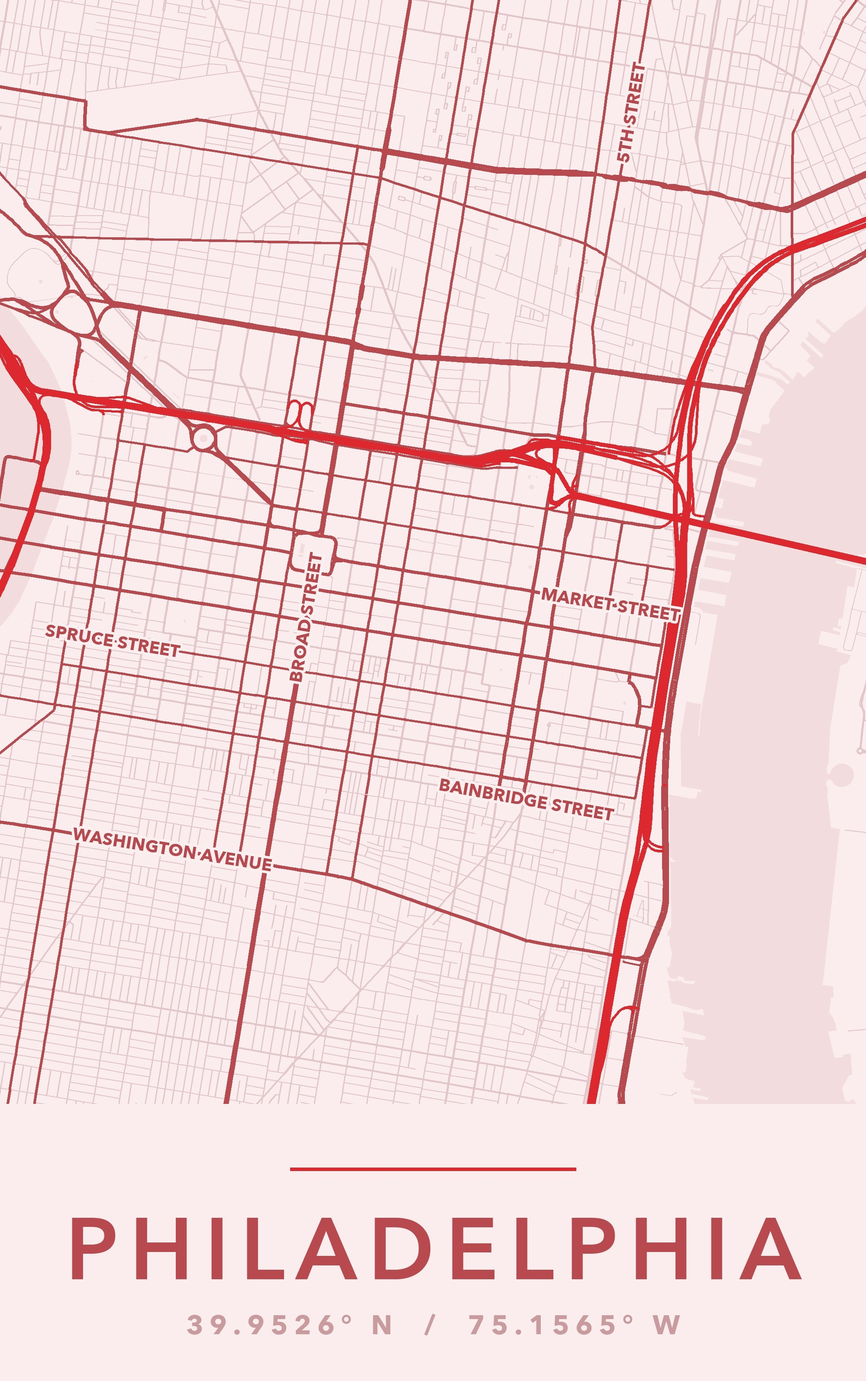
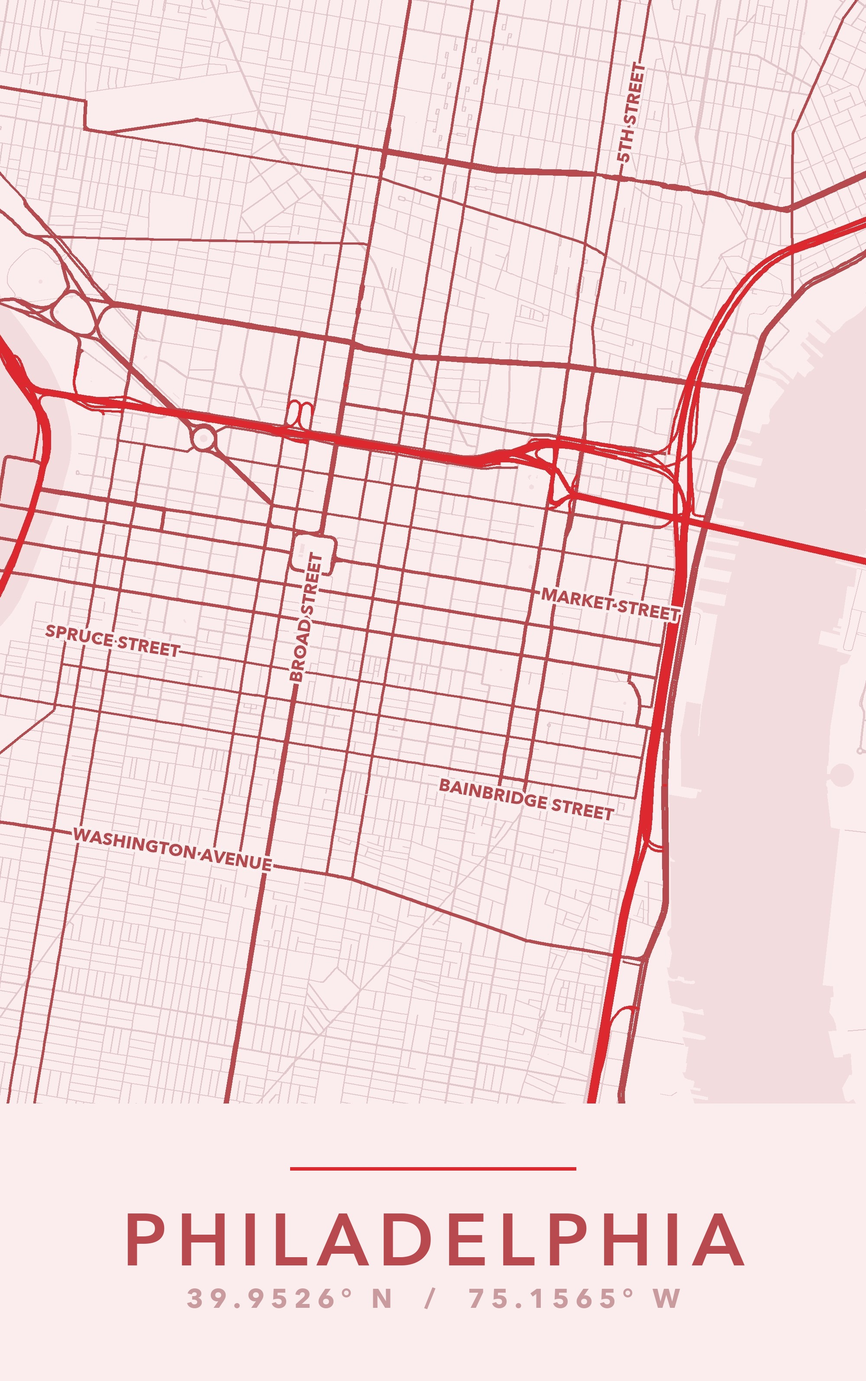
S26 Ultra white device color + Philadelphia map title fix (stale render band-redrawn, all 4 colorways)

Changed region(s): [[0.062, 0.869, 0.93, 0.9621]]

diff --git a/gallery.html b/gallery.html
@@ -359,7 +359,7 @@
   });
 
   /* ================= shop-by-device (Casetify-style) ================= */
-  var KP_DEVICES = {"iPhone 17 Pro Max": {"colors": [{"n": "Silver", "h": "#F5F5F5", "f": "i17pm-silver.webp"}, {"n": "Cosmic Orange", "h": "#F77E2D", "f": "i17pm-orange.webp"}, {"n": "Deep Blue", "h": "#32374A", "f": "i17pm-blue.webp"}], "outD": "M 833.0 344.0 L 1663.0 344.0 A 165.0 165.0 0 0 1 1828.0 509.0 L 1828.0 2485.0 A 165.0 165.0 0 0 1 1663.0 2650.0 L 833.0 2650.0 A 165.0 165.0 0 0 1 668.0 2485.0 L 668.0 509.0 A 165.0 165.0 0 0 1 833.0 344.0 Z", "camD": "M 782.0 362.0 L 1692.0 362.0 A 72.0 72.0 0 0 1 1764.0 434.0 L 1764.0 930.0 A 72.0 72.0 0 0 1 1692.0 1002.0 L 782.0 1002.0 A 72.0 72.0 0 0 1 710.0 930.0 L 710.0 434.0 A 72.0 72.0 0 0 1 782.0 362.0 Z", "outBox": [668.0, 344.0, 1828.0, 2650.0]}, "iPhone 17 Pro": {"colors": [{"n": "Silver", "h": "#F5F5F5", "f": "i17p-silver.webp"}, {"n": "Cosmic Orange", "h": "#F77E2D", "f": "i17p-orange.webp"}, {"n": "Deep Blue", "h": "#32374A", "f": "i17p-blue.webp"}], "outD": "M 833.0 350.0 L 1669.0 350.0 A 165.0 165.0 0 0 1 1834.0 515.0 L 1834.0 2485.0 A 165.0 165.0 0 0 1 1669.0 2650.0 L 833.0 2650.0 A 165.0 165.0 0 0 1 668.0 2485.0 L 668.0 515.0 A 165.0 165.0 0 0 1 833.0 350.0 Z", "camD": "M 782.0 366.0 L 1688.0 366.0 A 72.0 72.0 0 0 1 1760.0 438.0 L 1760.0 990.0 A 72.0 72.0 0 0 1 1688.0 1062.0 L 782.0 1062.0 A 72.0 72.0 0 0 1 710.0 990.0 L 710.0 438.0 A 72.0 72.0 0 0 1 782.0 366.0 Z", "outBox": [668.0, 350.0, 1834.0, 2650.0]}, "iPhone 17": {"colors": [{"n": "Black", "h": "#2A2A30", "f": "i17-black.webp"}, {"n": "Silver", "h": "#E8E7E7", "f": "i17-silver.webp"}, {"n": "Lavender", "h": "#B0ADC3", "f": "i17-lavender.webp"}, {"n": "Mist Blue", "h": "#7D90A3", "f": "i17-blue.webp"}], "outD": "M 833.0 350.0 L 1663.0 350.0 A 165.0 165.0 0 0 1 1828.0 515.0 L 1828.0 2485.0 A 165.0 165.0 0 0 1 1663.0 2650.0 L 833.0 2650.0 A 165.0 165.0 0 0 1 668.0 2485.0 L 668.0 515.0 A 165.0 165.0 0 0 1 833.0 350.0 Z", "camD": "M 774.0 394.0 L 1194.0 394.0 A 72.0 72.0 0 0 1 1266.0 466.0 L 1266.0 922.0 A 72.0 72.0 0 0 1 1194.0 994.0 L 774.0 994.0 A 72.0 72.0 0 0 1 702.0 922.0 L 702.0 466.0 A 72.0 72.0 0 0 1 774.0 394.0 Z", "outBox": [668.0, 350.0, 1828.0, 2650.0]}, "iPhone Air": {"colors": [{"n": "Space Black", "h": "#2A2A30", "f": "i17a-black.webp"}, {"n": "Cloud White", "h": "#E8E7E7", "f": "i17a-silver.webp"}, {"n": "Sky Blue", "h": "#ADBFC5", "f": "i17a-blue.webp"}, {"n": "Light Gold", "h": "#C6BDAB", "f": "i17a-gold.webp"}], "outD": "M 833.0 350.0 L 1663.0 350.0 A 165.0 165.0 0 0 1 1828.0 515.0 L 1828.0 2485.0 A 165.0 165.0 0 0 1 1663.0 2650.0 L 833.0 2650.0 A 165.0 165.0 0 0 1 668.0 2485.0 L 668.0 515.0 A 165.0 165.0 0 0 1 833.0 350.0 Z", "camD": "M 778.0 362.0 L 1692.0 362.0 A 72.0 72.0 0 0 1 1764.0 434.0 L 1764.0 750.0 A 72.0 72.0 0 0 1 1692.0 822.0 L 778.0 822.0 A 72.0 72.0 0 0 1 706.0 750.0 L 706.0 434.0 A 72.0 72.0 0 0 1 778.0 362.0 Z", "outBox": [668.0, 350.0, 1828.0, 2650.0]}, "iPhone 16 Pro Max": {"colors": [{"n": "Black", "h": "#505050", "f": "i16pm-black.webp"}, {"n": "Silver", "h": "#939393", "f": "i16pm-silver.webp"}, {"n": "Titanium", "h": "#837F7C", "f": "i16pm-titan.webp"}, {"n": "Blue", "h": "#6E767D", "f": "i16pm-blue.webp"}], "outD": "M 847.4 250.0 L 1649.6 250.0 A 209.4 209.4 0 0 1 1859.0 459.4 L 1859.0 2495.6 A 209.4 209.4 0 0 1 1649.6 2705.0 L 847.4 2705.0 A 209.4 209.4 0 0 1 638.0 2495.6 L 638.0 459.4 A 209.4 209.4 0 0 1 847.4 250.0 Z", "camD": "M 858.4 271.1 L 1152.0 271.1 A 189.2 189.2 0 0 1 1341.3 460.3 L 1341.3 743.7 A 189.2 189.2 0 0 1 1152.0 933.0 L 858.4 933.0 A 189.2 189.2 0 0 1 669.2 743.7 L 669.2 460.3 A 189.2 189.2 0 0 1 858.4 271.1 Z", "outBox": [638.0, 250.0, 1859.0, 2705.0]}, "iPhone 16 Pro": {"colors": [{"n": "Black", "h": "#7A7A7A", "f": "i16p-black.webp"}, {"n": "Silver", "h": "#B1B1B1", "f": "i16p-silver.webp"}, {"n": "Titanium", "h": "#AAA8A7", "f": "i16p-titan.webp"}, {"n": "Blue", "h": "#8D9194", "f": "i16p-blue.webp"}], "outD": "M 887.8 351.0 L 1609.2 351.0 A 202.8 202.8 0 0 1 1812.0 553.8 L 1812.0 2400.2 A 202.8 202.8 0 0 1 1609.2 2603.0 L 887.8 2603.0 A 202.8 202.8 0 0 1 685.0 2400.2 L 685.0 553.8 A 202.8 202.8 0 0 1 887.8 351.0 Z", "camD": "M 901.7 388.2 L 1195.0 388.2 A 193.5 193.5 0 0 1 1388.5 581.6 L 1388.5 851.1 A 193.5 193.5 0 0 1 1195.0 1044.5 L 901.7 1044.5 A 193.5 193.5 0 0 1 708.3 851.1 L 708.3 581.6 A 193.5 193.5 0 0 1 901.7 388.2 Z", "outBox": [685.0, 351.0, 1812.0, 2603.0]}, "iPhone 16": {"colors": [{"n": "Black", "h": "#545454", "f": "i16n-dark.webp"}, {"n": "White", "h": "#A9A9A9", "f": "i16n-white.webp"}, {"n": "Titanium", "h": "#8A8781", "f": "i16n-titan.webp"}, {"n": "Blue", "h": "#818EBA", "f": "i16n-blue.webp"}, {"n": "Pink", "h": "#B286A7", "f": "i16n-pink.webp"}], "outD": "M 905.9 364.0 L 1591.1 364.0 A 223.9 223.9 0 0 1 1815.0 587.9 L 1815.0 2366.1 A 223.9 223.9 0 0 1 1591.1 2590.0 L 905.9 2590.0 A 223.9 223.9 0 0 1 682.0 2366.1 L 682.0 587.9 A 223.9 223.9 0 0 1 905.9 364.0 Z", "camD": "M 886.9 381.5 L 893.1 381.5 A 188.4 188.4 0 0 1 1081.5 569.9 L 1081.5 819.2 A 188.4 188.4 0 0 1 893.1 1007.6 L 886.9 1007.6 A 188.4 188.4 0 0 1 698.5 819.2 L 698.5 569.9 A 188.4 188.4 0 0 1 886.9 381.5 Z", "outBox": [682.0, 364.0, 1815.0, 2590.0]}, "iPhone 15 Pro Max": {"colors": [{"n": "Black", "h": "#212121", "f": "i15pm-black.webp"}, {"n": "White", "h": "#6B6B6B", "f": "i15pm-white.webp"}, {"n": "Titanium", "h": "#585049", "f": "i15pm-titan.webp"}], "outD": "M 859.6 334.0 L 1649.4 334.0 A 187.6 187.6 0 0 1 1837.0 521.6 L 1837.0 2506.4 A 187.6 187.6 0 0 1 1649.4 2694.0 L 859.6 2694.0 A 187.6 187.6 0 0 1 672.0 2506.4 L 672.0 521.6 A 187.6 187.6 0 0 1 859.6 334.0 Z", "camD": "M 760.4 334.0 L 1280.3 334.0 A 88.4 88.4 0 0 1 1368.6 422.4 L 1368.6 831.9 A 88.4 88.4 0 0 1 1280.3 920.2 L 760.4 920.2 A 88.4 88.4 0 0 1 672.0 831.9 L 672.0 422.4 A 88.4 88.4 0 0 1 760.4 334.0 Z", "outBox": [672.0, 334.0, 1837.0, 2694.0]}, "iPhone 15 Pro": {"colors": [{"n": "Black", "h": "#2A2A2A", "f": "i15p-black.webp"}, {"n": "Silver", "h": "#BDBDBD", "f": "i15p-silver.webp"}, {"n": "Titanium", "h": "#9A958B", "f": "i15p-titan.webp"}], "outD": "M 886.2 447.0 L 1607.8 447.0 A 185.2 185.2 0 0 1 1793.0 632.2 L 1793.0 2441.8 A 185.2 185.2 0 0 1 1607.8 2627.0 L 886.2 2627.0 A 185.2 185.2 0 0 1 701.0 2441.8 L 701.0 632.2 A 185.2 185.2 0 0 1 886.2 447.0 Z", "camD": "M 797.9 447.0 L 1315.9 447.0 A 96.9 96.9 0 0 1 1412.8 543.9 L 1412.8 932.4 A 96.9 96.9 0 0 1 1315.9 1029.4 L 797.9 1029.4 A 96.9 96.9 0 0 1 701.0 932.4 L 701.0 543.9 A 96.9 96.9 0 0 1 797.9 447.0 Z", "outBox": [701.0, 447.0, 1793.0, 2627.0]}, "iPhone 15": {"colors": [{"n": "Black", "h": "#303030", "f": "i15-black.webp"}, {"n": "Pink", "h": "#AD979C", "f": "i15-pink.webp"}, {"n": "Yellow", "h": "#BFB79F", "f": "i15-yellow.webp"}], "outD": "M 877.3 431.0 L 1640.7 431.0 A 172.3 172.3 0 0 1 1813.0 603.3 L 1813.0 2443.7 A 172.3 172.3 0 0 1 1640.7 2616.0 L 877.3 2616.0 A 172.3 172.3 0 0 1 705.0 2443.7 L 705.0 603.3 A 172.3 172.3 0 0 1 877.3 431.0 Z", "camD": "M 826.7 431.0 L 1178.6 431.0 A 121.7 121.7 0 0 1 1300.3 552.7 L 1300.3 797.2 A 121.7 121.7 0 0 1 1178.6 918.9 L 826.7 918.9 A 121.7 121.7 0 0 1 705.0 797.2 L 705.0 552.7 A 121.7 121.7 0 0 1 826.7 431.0 Z", "outBox": [705.0, 431.0, 1813.0, 2616.0]}, "iPhone 13 Pro Max": {"colors": [{"n": "Black", "h": "#2A2A2E", "f": "i13pm-black.webp"}, {"n": "Red", "h": "#A32638", "f": "i13pm-red.webp"}, {"n": "Gold", "h": "#E3CFA8", "f": "i13pm-gold.webp"}, {"n": "White", "h": "#E8E7E7", "f": "i13pm-white.webp"}], "outD": "M 899.0 466.0 L 1602.0 466.0 A 170.0 170.0 0 0 1 1772.0 636.0 L 1772.0 2365.0 A 170.0 170.0 0 0 1 1602.0 2535.0 L 899.0 2535.0 A 170.0 170.0 0 0 1 729.0 2365.0 L 729.0 636.0 A 170.0 170.0 0 0 1 899.0 466.0 Z", "camD": "M 855.0 507.0 L 1133.0 507.0 A 80.0 80.0 0 0 1 1213.0 587.0 L 1213.0 865.0 A 80.0 80.0 0 0 1 1133.0 945.0 L 855.0 945.0 A 80.0 80.0 0 0 1 775.0 865.0 L 775.0 587.0 A 80.0 80.0 0 0 1 855.0 507.0 Z", "outBox": [729, 466, 1772, 2535]}, "iPhone 13 Pro": {"colors": [{"n": "Black", "h": "#2A2A2E", "f": "i13p-black.webp"}, {"n": "Gold", "h": "#E3CFA8", "f": "i13p-gold.webp"}, {"n": "Red", "h": "#A32638", "f": "i13p-red.webp"}, {"n": "White", "h": "#E8E7E7", "f": "i13p-white.webp"}], "outD": "M 941.0 556.0 L 1560.0 556.0 A 170.0 170.0 0 0 1 1730.0 726.0 L 1730.0 2275.0 A 170.0 170.0 0 0 1 1560.0 2445.0 L 941.0 2445.0 A 170.0 170.0 0 0 1 771.0 2275.0 L 771.0 726.0 A 170.0 170.0 0 0 1 941.0 556.0 Z", "camD": "M 894.0 594.0 L 1136.0 594.0 A 80.0 80.0 0 0 1 1216.0 674.0 L 1216.0 916.0 A 80.0 80.0 0 0 1 1136.0 996.0 L 894.0 996.0 A 80.0 80.0 0 0 1 814.0 916.0 L 814.0 674.0 A 80.0 80.0 0 0 1 894.0 594.0 Z", "outBox": [771, 556, 1730, 2445]}, "iPhone 13": {"colors": [{"n": "Black", "h": "#2A2A2E", "f": "i13-black.webp"}, {"n": "Gold", "h": "#E3CFA8", "f": "i13-gold.webp"}, {"n": "Red", "h": "#A32638", "f": "i13-red.webp"}, {"n": "White", "h": "#E8E7E7", "f": "i13-white.webp"}], "outD": "M 941.0 555.0 L 1560.0 555.0 A 170.0 170.0 0 0 1 1730.0 725.0 L 1730.0 2276.0 A 170.0 170.0 0 0 1 1560.0 2446.0 L 941.0 2446.0 A 170.0 170.0 0 0 1 771.0 2276.0 L 771.0 725.0 A 170.0 170.0 0 0 1 941.0 555.0 Z", "camD": "M 894.0 593.0 L 1136.0 593.0 A 80.0 80.0 0 0 1 1216.0 673.0 L 1216.0 915.0 A 80.0 80.0 0 0 1 1136.0 995.0 L 894.0 995.0 A 80.0 80.0 0 0 1 814.0 915.0 L 814.0 673.0 A 80.0 80.0 0 0 1 894.0 593.0 Z", "outBox": [771, 555, 1730, 2446]}, "iPhone 13 mini": {"colors": [{"n": "Black", "h": "#2A2A2E", "f": "i13mn-black.webp"}, {"n": "Gold", "h": "#E3CFA8", "f": "i13mn-gold.webp"}, {"n": "Red", "h": "#A32638", "f": "i13mn-red.webp"}, {"n": "White", "h": "#E8E7E7", "f": "i13mn-white.webp"}], "outD": "M 988.0 652.0 L 1513.0 652.0 A 170.0 170.0 0 0 1 1683.0 822.0 L 1683.0 2179.0 A 170.0 170.0 0 0 1 1513.0 2349.0 L 988.0 2349.0 A 170.0 170.0 0 0 1 818.0 2179.0 L 818.0 822.0 A 170.0 170.0 0 0 1 988.0 652.0 Z", "camD": "M 936.0 686.0 L 1139.0 686.0 A 80.0 80.0 0 0 1 1219.0 766.0 L 1219.0 969.0 A 80.0 80.0 0 0 1 1139.0 1049.0 L 936.0 1049.0 A 80.0 80.0 0 0 1 856.0 969.0 L 856.0 766.0 A 80.0 80.0 0 0 1 936.0 686.0 Z", "outBox": [818, 652, 1683, 2349]}, "iPhone 12 Pro Max": {"colors": [{"n": "Black", "h": "#2A2A2E", "f": "i12pm-black.webp"}, {"n": "Gold", "h": "#E3CFA8", "f": "i12pm-gold.webp"}, {"n": "Red", "h": "#A32638", "f": "i12pm-red.webp"}, {"n": "White", "h": "#E8E7E7", "f": "i12pm-white.webp"}], "outD": "M 896.0 462.0 L 1605.0 462.0 A 170.0 170.0 0 0 1 1775.0 632.0 L 1775.0 2369.0 A 170.0 170.0 0 0 1 1605.0 2539.0 L 896.0 2539.0 A 170.0 170.0 0 0 1 726.0 2369.0 L 726.0 632.0 A 170.0 170.0 0 0 1 896.0 462.0 Z", "camD": "M 853.0 503.0 L 1133.0 503.0 A 80.0 80.0 0 0 1 1213.0 583.0 L 1213.0 863.0 A 80.0 80.0 0 0 1 1133.0 943.0 L 853.0 943.0 A 80.0 80.0 0 0 1 773.0 863.0 L 773.0 583.0 A 80.0 80.0 0 0 1 853.0 503.0 Z", "outBox": [726, 462, 1775, 2539]}, "iPhone 12 Pro": {"colors": [{"n": "Black", "h": "#2A2A2E", "f": "i12p-black.webp"}, {"n": "Red", "h": "#A32638", "f": "i12p-red.webp"}, {"n": "Gold", "h": "#E3CFA8", "f": "i12p-gold.webp"}, {"n": "White", "h": "#E8E7E7", "f": "i12p-white.webp"}], "outD": "M 940.0 555.0 L 1561.0 555.0 A 170.0 170.0 0 0 1 1731.0 725.0 L 1731.0 2277.0 A 170.0 170.0 0 0 1 1561.0 2447.0 L 940.0 2447.0 A 170.0 170.0 0 0 1 770.0 2277.0 L 770.0 725.0 A 170.0 170.0 0 0 1 940.0 555.0 Z", "camD": "M 893.0 593.0 L 1136.0 593.0 A 80.0 80.0 0 0 1 1216.0 673.0 L 1216.0 916.0 A 80.0 80.0 0 0 1 1136.0 996.0 L 893.0 996.0 A 80.0 80.0 0 0 1 813.0 916.0 L 813.0 673.0 A 80.0 80.0 0 0 1 893.0 593.0 Z", "outBox": [770, 555, 1731, 2447]}, "iPhone 12": {"colors": [{"n": "Black", "h": "#2A2A2E", "f": "i12-black.webp"}, {"n": "Gold", "h": "#E3CFA8", "f": "i12-gold.webp"}, {"n": "Red", "h": "#A32638", "f": "i12-red.webp"}, {"n": "White", "h": "#E8E7E7", "f": "i12-white.webp"}], "outD": "M 940.0 555.0 L 1561.0 555.0 A 170.0 170.0 0 0 1 1731.0 725.0 L 1731.0 2277.0 A 170.0 170.0 0 0 1 1561.0 2447.0 L 940.0 2447.0 A 170.0 170.0 0 0 1 770.0 2277.0 L 770.0 725.0 A 170.0 170.0 0 0 1 940.0 555.0 Z", "camD": "M 893.0 593.0 L 1136.0 593.0 A 80.0 80.0 0 0 1 1216.0 673.0 L 1216.0 916.0 A 80.0 80.0 0 0 1 1136.0 996.0 L 893.0 996.0 A 80.0 80.0 0 0 1 813.0 916.0 L 813.0 673.0 A 80.0 80.0 0 0 1 893.0 593.0 Z", "outBox": [770, 555, 1731, 2447]}, "iPhone 12 mini": {"colors": [{"n": "Black", "h": "#2A2A2E", "f": "i12mn-black.webp"}, {"n": "Red", "h": "#A32638", "f": "i12mn-red.webp"}, {"n": "Gold", "h": "#E3CFA8", "f": "i12mn-gold.webp"}, {"n": "White", "h": "#E8E7E7", "f": "i12mn-white.webp"}], "outD": "M 988.0 652.0 L 1513.0 652.0 A 170.0 170.0 0 0 1 1683.0 822.0 L 1683.0 2179.0 A 170.0 170.0 0 0 1 1513.0 2349.0 L 988.0 2349.0 A 170.0 170.0 0 0 1 818.0 2179.0 L 818.0 822.0 A 170.0 170.0 0 0 1 988.0 652.0 Z", "camD": "M 936.0 686.0 L 1139.0 686.0 A 80.0 80.0 0 0 1 1219.0 766.0 L 1219.0 969.0 A 80.0 80.0 0 0 1 1139.0 1049.0 L 936.0 1049.0 A 80.0 80.0 0 0 1 856.0 969.0 L 856.0 766.0 A 80.0 80.0 0 0 1 936.0 686.0 Z", "outBox": [818, 652, 1683, 2349]}, "iPhone 14 Pro Max": {"colors": [{"n": "Black", "h": "#2A2A2E", "f": "i14pm-black.webp"}, {"n": "Red", "h": "#A32638", "f": "i14pm-red.webp"}, {"n": "Silver", "h": "#C9C9C9", "f": "i14pm-silver.webp"}, {"n": "Gold", "h": "#E3CFA8", "f": "i14pm-gold.webp"}], "outD": "M 892.0 444.0 L 1608.0 444.0 A 175.0 175.0 0 0 1 1783.0 619.0 L 1783.0 2381.0 A 175.0 175.0 0 0 1 1608.0 2556.0 L 892.0 2556.0 A 175.0 175.0 0 0 1 717.0 2381.0 L 717.0 619.0 A 175.0 175.0 0 0 1 892.0 444.0 Z", "camD": "M 830.0 470.0 L 1150.0 470.0 A 90.0 90.0 0 0 1 1240.0 560.0 L 1240.0 880.0 A 90.0 90.0 0 0 1 1150.0 970.0 L 830.0 970.0 A 90.0 90.0 0 0 1 740.0 880.0 L 740.0 560.0 A 90.0 90.0 0 0 1 830.0 470.0 Z", "outBox": [717, 444, 1783, 2556]}, "iPhone 14 Pro": {"colors": [{"n": "White", "h": "#E8E7E7", "f": "i14p-whte.webp"}, {"n": "Red", "h": "#A32638", "f": "i14p-red.webp"}, {"n": "Gold", "h": "#E3CFA8", "f": "i14p-gold.webp"}, {"n": "Black", "h": "#2A2A2E", "f": "i14p-black.webp"}], "outD": "M 934.0 534.0 L 1565.0 534.0 A 175.0 175.0 0 0 1 1740.0 709.0 L 1740.0 2291.0 A 175.0 175.0 0 0 1 1565.0 2466.0 L 934.0 2466.0 A 175.0 175.0 0 0 1 759.0 2291.0 L 759.0 709.0 A 175.0 175.0 0 0 1 934.0 534.0 Z", "camD": "M 870.0 555.0 L 1160.0 555.0 A 90.0 90.0 0 0 1 1250.0 645.0 L 1250.0 930.0 A 90.0 90.0 0 0 1 1160.0 1020.0 L 870.0 1020.0 A 90.0 90.0 0 0 1 780.0 930.0 L 780.0 645.0 A 90.0 90.0 0 0 1 870.0 555.0 Z", "outBox": [759, 534, 1740, 2466]}, "iPhone 14 Plus": {"colors": [{"n": "Black", "h": "#2A2A2E", "f": "i14m-black.webp"}, {"n": "Gold", "h": "#E3CFA8", "f": "i14m-gold.webp"}, {"n": "Silver", "h": "#C9C9C9", "f": "i14m-silver.webp"}, {"n": "Red", "h": "#A32638", "f": "i14m-red.webp"}], "outD": "M 906.0 452.0 L 1622.0 452.0 A 175.0 175.0 0 0 1 1797.0 627.0 L 1797.0 2378.0 A 175.0 175.0 0 0 1 1622.0 2553.0 L 906.0 2553.0 A 175.0 175.0 0 0 1 731.0 2378.0 L 731.0 627.0 A 175.0 175.0 0 0 1 906.0 452.0 Z", "camD": "M 845.0 475.0 L 1090.0 475.0 A 90.0 90.0 0 0 1 1180.0 565.0 L 1180.0 800.0 A 90.0 90.0 0 0 1 1090.0 890.0 L 845.0 890.0 A 90.0 90.0 0 0 1 755.0 800.0 L 755.0 565.0 A 90.0 90.0 0 0 1 845.0 475.0 Z", "outBox": [731, 452, 1797, 2553]}, "iPhone 14": {"colors": [{"n": "Black", "h": "#2A2A2E", "f": "i14-black.webp"}, {"n": "Gold", "h": "#E3CFA8", "f": "i14-gold.webp"}, {"n": "Silver", "h": "#C9C9C9", "f": "i14-silver.webp"}, {"n": "Red", "h": "#A32638", "f": "i14-red.webp"}], "outD": "M 935.0 536.0 L 1564.0 536.0 A 175.0 175.0 0 0 1 1739.0 711.0 L 1739.0 2289.0 A 175.0 175.0 0 0 1 1564.0 2464.0 L 935.0 2464.0 A 175.0 175.0 0 0 1 760.0 2289.0 L 760.0 711.0 A 175.0 175.0 0 0 1 935.0 536.0 Z", "camD": "M 875.0 558.0 L 1080.0 558.0 A 90.0 90.0 0 0 1 1170.0 648.0 L 1170.0 850.0 A 90.0 90.0 0 0 1 1080.0 940.0 L 875.0 940.0 A 90.0 90.0 0 0 1 785.0 850.0 L 785.0 648.0 A 90.0 90.0 0 0 1 875.0 558.0 Z", "outBox": [760, 536, 1739, 2464]}, "iPhone 15 Plus": {"colors": [{"n": "Black", "h": "#303030", "f": "i15m-black.webp"}, {"n": "Pink", "h": "#AD979C", "f": "i15m-pink.webp"}, {"n": "Yellow", "h": "#BFB79F", "f": "i15m-yellow.webp"}], "outD": "M 844.0 324.0 L 1663.0 324.0 A 185.0 185.0 0 0 1 1848.0 509.0 L 1848.0 2528.0 A 185.0 185.0 0 0 1 1663.0 2713.0 L 844.0 2713.0 A 185.0 185.0 0 0 1 659.0 2528.0 L 659.0 509.0 A 185.0 185.0 0 0 1 844.0 324.0 Z", "camD": "M 795.0 360.0 L 1085.0 360.0 A 95.0 95.0 0 0 1 1180.0 455.0 L 1180.0 805.0 A 95.0 95.0 0 0 1 1085.0 900.0 L 795.0 900.0 A 95.0 95.0 0 0 1 700.0 805.0 L 700.0 455.0 A 95.0 95.0 0 0 1 795.0 360.0 Z", "outBox": [659, 324, 1848, 2713]}, "iPhone 16 Plus": {"colors": [{"n": "Black", "h": "#545454", "f": "i16m-dark.webp"}, {"n": "White", "h": "#A9A9A9", "f": "i16m-white.webp"}, {"n": "Blue", "h": "#818EBA", "f": "i16m-blue.webp"}, {"n": "Pink", "h": "#B286A7", "f": "i16m-pink.webp"}], "outD": "M 825.0 271.0 L 1671.0 271.0 A 185.0 185.0 0 0 1 1856.0 456.0 L 1856.0 2497.0 A 185.0 185.0 0 0 1 1671.0 2682.0 L 825.0 2682.0 A 185.0 185.0 0 0 1 640.0 2497.0 L 640.0 456.0 A 185.0 185.0 0 0 1 825.0 271.0 Z", "camD": "M 785.0 320.0 L 1075.0 320.0 A 95.0 95.0 0 0 1 1170.0 415.0 L 1170.0 785.0 A 95.0 95.0 0 0 1 1075.0 880.0 L 785.0 880.0 A 95.0 95.0 0 0 1 690.0 785.0 L 690.0 415.0 A 95.0 95.0 0 0 1 785.0 320.0 Z", "outBox": [640, 271, 1856, 2682]}, "Galaxy S26": {"colors": [{"n": "White", "h": "#F5F5F5", "f": "s26-white.webp"}], "outD": "M 779.0 251.0 L 1719.0 251.0 A 150.0 150.0 0 0 1 1869.0 401.0 L 1869.0 2599.0 A 150.0 150.0 0 0 1 1719.0 2749.0 L 779.0 2749.0 A 150.0 150.0 0 0 1 629.0 2599.0 L 629.0 401.0 A 150.0 150.0 0 0 1 779.0 251.0 Z", "camD": "M 866.0 332.0 L 1068.0 332.0 A 151.0 151.0 0 0 1 1219.0 483.0 L 1219.0 1060.0 A 151.0 151.0 0 0 1 1068.0 1211.0 L 866.0 1211.0 A 151.0 151.0 0 0 1 715.0 1060.0 L 715.0 483.0 A 151.0 151.0 0 0 1 866.0 332.0 Z", "outBox": [629, 251, 1869, 2749]}, "Galaxy S26 Ultra": {"colors": [{"n": "Black", "h": "#2A2A30", "f": "s26u-clear-black.webp"}], "outD": "M 786.0 251.0 L 1713.0 251.0 A 150.0 150.0 0 0 1 1863.0 401.0 L 1863.0 2599.0 A 150.0 150.0 0 0 1 1713.0 2749.0 L 786.0 2749.0 A 150.0 150.0 0 0 1 636.0 2599.0 L 636.0 401.0 A 150.0 150.0 0 0 1 786.0 251.0 Z", "camD": "M 875.0 328.0 L 1085.0 328.0 A 158.0 158.0 0 0 1 1243.0 486.0 L 1243.0 1060.0 A 158.0 158.0 0 0 1 1085.0 1218.0 L 875.0 1218.0 A 158.0 158.0 0 0 1 717.0 1060.0 L 717.0 486.0 A 158.0 158.0 0 0 1 875.0 328.0 Z", "outBox": [636, 251, 1863, 2749]}};
+  var KP_DEVICES = {"iPhone 17 Pro Max": {"colors": [{"n": "Silver", "h": "#F5F5F5", "f": "i17pm-silver.webp"}, {"n": "Cosmic Orange", "h": "#F77E2D", "f": "i17pm-orange.webp"}, {"n": "Deep Blue", "h": "#32374A", "f": "i17pm-blue.webp"}], "outD": "M 833.0 344.0 L 1663.0 344.0 A 165.0 165.0 0 0 1 1828.0 509.0 L 1828.0 2485.0 A 165.0 165.0 0 0 1 1663.0 2650.0 L 833.0 2650.0 A 165.0 165.0 0 0 1 668.0 2485.0 L 668.0 509.0 A 165.0 165.0 0 0 1 833.0 344.0 Z", "camD": "M 782.0 362.0 L 1692.0 362.0 A 72.0 72.0 0 0 1 1764.0 434.0 L 1764.0 930.0 A 72.0 72.0 0 0 1 1692.0 1002.0 L 782.0 1002.0 A 72.0 72.0 0 0 1 710.0 930.0 L 710.0 434.0 A 72.0 72.0 0 0 1 782.0 362.0 Z", "outBox": [668.0, 344.0, 1828.0, 2650.0]}, "iPhone 17 Pro": {"colors": [{"n": "Silver", "h": "#F5F5F5", "f": "i17p-silver.webp"}, {"n": "Cosmic Orange", "h": "#F77E2D", "f": "i17p-orange.webp"}, {"n": "Deep Blue", "h": "#32374A", "f": "i17p-blue.webp"}], "outD": "M 833.0 350.0 L 1669.0 350.0 A 165.0 165.0 0 0 1 1834.0 515.0 L 1834.0 2485.0 A 165.0 165.0 0 0 1 1669.0 2650.0 L 833.0 2650.0 A 165.0 165.0 0 0 1 668.0 2485.0 L 668.0 515.0 A 165.0 165.0 0 0 1 833.0 350.0 Z", "camD": "M 782.0 366.0 L 1688.0 366.0 A 72.0 72.0 0 0 1 1760.0 438.0 L 1760.0 990.0 A 72.0 72.0 0 0 1 1688.0 1062.0 L 782.0 1062.0 A 72.0 72.0 0 0 1 710.0 990.0 L 710.0 438.0 A 72.0 72.0 0 0 1 782.0 366.0 Z", "outBox": [668.0, 350.0, 1834.0, 2650.0]}, "iPhone 17": {"colors": [{"n": "Black", "h": "#2A2A30", "f": "i17-black.webp"}, {"n": "Silver", "h": "#E8E7E7", "f": "i17-silver.webp"}, {"n": "Lavender", "h": "#B0ADC3", "f": "i17-lavender.webp"}, {"n": "Mist Blue", "h": "#7D90A3", "f": "i17-blue.webp"}], "outD": "M 833.0 350.0 L 1663.0 350.0 A 165.0 165.0 0 0 1 1828.0 515.0 L 1828.0 2485.0 A 165.0 165.0 0 0 1 1663.0 2650.0 L 833.0 2650.0 A 165.0 165.0 0 0 1 668.0 2485.0 L 668.0 515.0 A 165.0 165.0 0 0 1 833.0 350.0 Z", "camD": "M 774.0 394.0 L 1194.0 394.0 A 72.0 72.0 0 0 1 1266.0 466.0 L 1266.0 922.0 A 72.0 72.0 0 0 1 1194.0 994.0 L 774.0 994.0 A 72.0 72.0 0 0 1 702.0 922.0 L 702.0 466.0 A 72.0 72.0 0 0 1 774.0 394.0 Z", "outBox": [668.0, 350.0, 1828.0, 2650.0]}, "iPhone Air": {"colors": [{"n": "Space Black", "h": "#2A2A30", "f": "i17a-black.webp"}, {"n": "Cloud White", "h": "#E8E7E7", "f": "i17a-silver.webp"}, {"n": "Sky Blue", "h": "#ADBFC5", "f": "i17a-blue.webp"}, {"n": "Light Gold", "h": "#C6BDAB", "f": "i17a-gold.webp"}], "outD": "M 833.0 350.0 L 1663.0 350.0 A 165.0 165.0 0 0 1 1828.0 515.0 L 1828.0 2485.0 A 165.0 165.0 0 0 1 1663.0 2650.0 L 833.0 2650.0 A 165.0 165.0 0 0 1 668.0 2485.0 L 668.0 515.0 A 165.0 165.0 0 0 1 833.0 350.0 Z", "camD": "M 778.0 362.0 L 1692.0 362.0 A 72.0 72.0 0 0 1 1764.0 434.0 L 1764.0 750.0 A 72.0 72.0 0 0 1 1692.0 822.0 L 778.0 822.0 A 72.0 72.0 0 0 1 706.0 750.0 L 706.0 434.0 A 72.0 72.0 0 0 1 778.0 362.0 Z", "outBox": [668.0, 350.0, 1828.0, 2650.0]}, "iPhone 16 Pro Max": {"colors": [{"n": "Black", "h": "#505050", "f": "i16pm-black.webp"}, {"n": "Silver", "h": "#939393", "f": "i16pm-silver.webp"}, {"n": "Titanium", "h": "#837F7C", "f": "i16pm-titan.webp"}, {"n": "Blue", "h": "#6E767D", "f": "i16pm-blue.webp"}], "outD": "M 847.4 250.0 L 1649.6 250.0 A 209.4 209.4 0 0 1 1859.0 459.4 L 1859.0 2495.6 A 209.4 209.4 0 0 1 1649.6 2705.0 L 847.4 2705.0 A 209.4 209.4 0 0 1 638.0 2495.6 L 638.0 459.4 A 209.4 209.4 0 0 1 847.4 250.0 Z", "camD": "M 858.4 271.1 L 1152.0 271.1 A 189.2 189.2 0 0 1 1341.3 460.3 L 1341.3 743.7 A 189.2 189.2 0 0 1 1152.0 933.0 L 858.4 933.0 A 189.2 189.2 0 0 1 669.2 743.7 L 669.2 460.3 A 189.2 189.2 0 0 1 858.4 271.1 Z", "outBox": [638.0, 250.0, 1859.0, 2705.0]}, "iPhone 16 Pro": {"colors": [{"n": "Black", "h": "#7A7A7A", "f": "i16p-black.webp"}, {"n": "Silver", "h": "#B1B1B1", "f": "i16p-silver.webp"}, {"n": "Titanium", "h": "#AAA8A7", "f": "i16p-titan.webp"}, {"n": "Blue", "h": "#8D9194", "f": "i16p-blue.webp"}], "outD": "M 887.8 351.0 L 1609.2 351.0 A 202.8 202.8 0 0 1 1812.0 553.8 L 1812.0 2400.2 A 202.8 202.8 0 0 1 1609.2 2603.0 L 887.8 2603.0 A 202.8 202.8 0 0 1 685.0 2400.2 L 685.0 553.8 A 202.8 202.8 0 0 1 887.8 351.0 Z", "camD": "M 901.7 388.2 L 1195.0 388.2 A 193.5 193.5 0 0 1 1388.5 581.6 L 1388.5 851.1 A 193.5 193.5 0 0 1 1195.0 1044.5 L 901.7 1044.5 A 193.5 193.5 0 0 1 708.3 851.1 L 708.3 581.6 A 193.5 193.5 0 0 1 901.7 388.2 Z", "outBox": [685.0, 351.0, 1812.0, 2603.0]}, "iPhone 16": {"colors": [{"n": "Black", "h": "#545454", "f": "i16n-dark.webp"}, {"n": "White", "h": "#A9A9A9", "f": "i16n-white.webp"}, {"n": "Titanium", "h": "#8A8781", "f": "i16n-titan.webp"}, {"n": "Blue", "h": "#818EBA", "f": "i16n-blue.webp"}, {"n": "Pink", "h": "#B286A7", "f": "i16n-pink.webp"}], "outD": "M 905.9 364.0 L 1591.1 364.0 A 223.9 223.9 0 0 1 1815.0 587.9 L 1815.0 2366.1 A 223.9 223.9 0 0 1 1591.1 2590.0 L 905.9 2590.0 A 223.9 223.9 0 0 1 682.0 2366.1 L 682.0 587.9 A 223.9 223.9 0 0 1 905.9 364.0 Z", "camD": "M 886.9 381.5 L 893.1 381.5 A 188.4 188.4 0 0 1 1081.5 569.9 L 1081.5 819.2 A 188.4 188.4 0 0 1 893.1 1007.6 L 886.9 1007.6 A 188.4 188.4 0 0 1 698.5 819.2 L 698.5 569.9 A 188.4 188.4 0 0 1 886.9 381.5 Z", "outBox": [682.0, 364.0, 1815.0, 2590.0]}, "iPhone 15 Pro Max": {"colors": [{"n": "Black", "h": "#212121", "f": "i15pm-black.webp"}, {"n": "White", "h": "#6B6B6B", "f": "i15pm-white.webp"}, {"n": "Titanium", "h": "#585049", "f": "i15pm-titan.webp"}], "outD": "M 859.6 334.0 L 1649.4 334.0 A 187.6 187.6 0 0 1 1837.0 521.6 L 1837.0 2506.4 A 187.6 187.6 0 0 1 1649.4 2694.0 L 859.6 2694.0 A 187.6 187.6 0 0 1 672.0 2506.4 L 672.0 521.6 A 187.6 187.6 0 0 1 859.6 334.0 Z", "camD": "M 760.4 334.0 L 1280.3 334.0 A 88.4 88.4 0 0 1 1368.6 422.4 L 1368.6 831.9 A 88.4 88.4 0 0 1 1280.3 920.2 L 760.4 920.2 A 88.4 88.4 0 0 1 672.0 831.9 L 672.0 422.4 A 88.4 88.4 0 0 1 760.4 334.0 Z", "outBox": [672.0, 334.0, 1837.0, 2694.0]}, "iPhone 15 Pro": {"colors": [{"n": "Black", "h": "#2A2A2A", "f": "i15p-black.webp"}, {"n": "Silver", "h": "#BDBDBD", "f": "i15p-silver.webp"}, {"n": "Titanium", "h": "#9A958B", "f": "i15p-titan.webp"}], "outD": "M 886.2 447.0 L 1607.8 447.0 A 185.2 185.2 0 0 1 1793.0 632.2 L 1793.0 2441.8 A 185.2 185.2 0 0 1 1607.8 2627.0 L 886.2 2627.0 A 185.2 185.2 0 0 1 701.0 2441.8 L 701.0 632.2 A 185.2 185.2 0 0 1 886.2 447.0 Z", "camD": "M 797.9 447.0 L 1315.9 447.0 A 96.9 96.9 0 0 1 1412.8 543.9 L 1412.8 932.4 A 96.9 96.9 0 0 1 1315.9 1029.4 L 797.9 1029.4 A 96.9 96.9 0 0 1 701.0 932.4 L 701.0 543.9 A 96.9 96.9 0 0 1 797.9 447.0 Z", "outBox": [701.0, 447.0, 1793.0, 2627.0]}, "iPhone 15": {"colors": [{"n": "Black", "h": "#303030", "f": "i15-black.webp"}, {"n": "Pink", "h": "#AD979C", "f": "i15-pink.webp"}, {"n": "Yellow", "h": "#BFB79F", "f": "i15-yellow.webp"}], "outD": "M 877.3 431.0 L 1640.7 431.0 A 172.3 172.3 0 0 1 1813.0 603.3 L 1813.0 2443.7 A 172.3 172.3 0 0 1 1640.7 2616.0 L 877.3 2616.0 A 172.3 172.3 0 0 1 705.0 2443.7 L 705.0 603.3 A 172.3 172.3 0 0 1 877.3 431.0 Z", "camD": "M 826.7 431.0 L 1178.6 431.0 A 121.7 121.7 0 0 1 1300.3 552.7 L 1300.3 797.2 A 121.7 121.7 0 0 1 1178.6 918.9 L 826.7 918.9 A 121.7 121.7 0 0 1 705.0 797.2 L 705.0 552.7 A 121.7 121.7 0 0 1 826.7 431.0 Z", "outBox": [705.0, 431.0, 1813.0, 2616.0]}, "iPhone 13 Pro Max": {"colors": [{"n": "Black", "h": "#2A2A2E", "f": "i13pm-black.webp"}, {"n": "Red", "h": "#A32638", "f": "i13pm-red.webp"}, {"n": "Gold", "h": "#E3CFA8", "f": "i13pm-gold.webp"}, {"n": "White", "h": "#E8E7E7", "f": "i13pm-white.webp"}], "outD": "M 899.0 466.0 L 1602.0 466.0 A 170.0 170.0 0 0 1 1772.0 636.0 L 1772.0 2365.0 A 170.0 170.0 0 0 1 1602.0 2535.0 L 899.0 2535.0 A 170.0 170.0 0 0 1 729.0 2365.0 L 729.0 636.0 A 170.0 170.0 0 0 1 899.0 466.0 Z", "camD": "M 855.0 507.0 L 1133.0 507.0 A 80.0 80.0 0 0 1 1213.0 587.0 L 1213.0 865.0 A 80.0 80.0 0 0 1 1133.0 945.0 L 855.0 945.0 A 80.0 80.0 0 0 1 775.0 865.0 L 775.0 587.0 A 80.0 80.0 0 0 1 855.0 507.0 Z", "outBox": [729, 466, 1772, 2535]}, "iPhone 13 Pro": {"colors": [{"n": "Black", "h": "#2A2A2E", "f": "i13p-black.webp"}, {"n": "Gold", "h": "#E3CFA8", "f": "i13p-gold.webp"}, {"n": "Red", "h": "#A32638", "f": "i13p-red.webp"}, {"n": "White", "h": "#E8E7E7", "f": "i13p-white.webp"}], "outD": "M 941.0 556.0 L 1560.0 556.0 A 170.0 170.0 0 0 1 1730.0 726.0 L 1730.0 2275.0 A 170.0 170.0 0 0 1 1560.0 2445.0 L 941.0 2445.0 A 170.0 170.0 0 0 1 771.0 2275.0 L 771.0 726.0 A 170.0 170.0 0 0 1 941.0 556.0 Z", "camD": "M 894.0 594.0 L 1136.0 594.0 A 80.0 80.0 0 0 1 1216.0 674.0 L 1216.0 916.0 A 80.0 80.0 0 0 1 1136.0 996.0 L 894.0 996.0 A 80.0 80.0 0 0 1 814.0 916.0 L 814.0 674.0 A 80.0 80.0 0 0 1 894.0 594.0 Z", "outBox": [771, 556, 1730, 2445]}, "iPhone 13": {"colors": [{"n": "Black", "h": "#2A2A2E", "f": "i13-black.webp"}, {"n": "Gold", "h": "#E3CFA8", "f": "i13-gold.webp"}, {"n": "Red", "h": "#A32638", "f": "i13-red.webp"}, {"n": "White", "h": "#E8E7E7", "f": "i13-white.webp"}], "outD": "M 941.0 555.0 L 1560.0 555.0 A 170.0 170.0 0 0 1 1730.0 725.0 L 1730.0 2276.0 A 170.0 170.0 0 0 1 1560.0 2446.0 L 941.0 2446.0 A 170.0 170.0 0 0 1 771.0 2276.0 L 771.0 725.0 A 170.0 170.0 0 0 1 941.0 555.0 Z", "camD": "M 894.0 593.0 L 1136.0 593.0 A 80.0 80.0 0 0 1 1216.0 673.0 L 1216.0 915.0 A 80.0 80.0 0 0 1 1136.0 995.0 L 894.0 995.0 A 80.0 80.0 0 0 1 814.0 915.0 L 814.0 673.0 A 80.0 80.0 0 0 1 894.0 593.0 Z", "outBox": [771, 555, 1730, 2446]}, "iPhone 13 mini": {"colors": [{"n": "Black", "h": "#2A2A2E", "f": "i13mn-black.webp"}, {"n": "Gold", "h": "#E3CFA8", "f": "i13mn-gold.webp"}, {"n": "Red", "h": "#A32638", "f": "i13mn-red.webp"}, {"n": "White", "h": "#E8E7E7", "f": "i13mn-white.webp"}], "outD": "M 988.0 652.0 L 1513.0 652.0 A 170.0 170.0 0 0 1 1683.0 822.0 L 1683.0 2179.0 A 170.0 170.0 0 0 1 1513.0 2349.0 L 988.0 2349.0 A 170.0 170.0 0 0 1 818.0 2179.0 L 818.0 822.0 A 170.0 170.0 0 0 1 988.0 652.0 Z", "camD": "M 936.0 686.0 L 1139.0 686.0 A 80.0 80.0 0 0 1 1219.0 766.0 L 1219.0 969.0 A 80.0 80.0 0 0 1 1139.0 1049.0 L 936.0 1049.0 A 80.0 80.0 0 0 1 856.0 969.0 L 856.0 766.0 A 80.0 80.0 0 0 1 936.0 686.0 Z", "outBox": [818, 652, 1683, 2349]}, "iPhone 12 Pro Max": {"colors": [{"n": "Black", "h": "#2A2A2E", "f": "i12pm-black.webp"}, {"n": "Gold", "h": "#E3CFA8", "f": "i12pm-gold.webp"}, {"n": "Red", "h": "#A32638", "f": "i12pm-red.webp"}, {"n": "White", "h": "#E8E7E7", "f": "i12pm-white.webp"}], "outD": "M 896.0 462.0 L 1605.0 462.0 A 170.0 170.0 0 0 1 1775.0 632.0 L 1775.0 2369.0 A 170.0 170.0 0 0 1 1605.0 2539.0 L 896.0 2539.0 A 170.0 170.0 0 0 1 726.0 2369.0 L 726.0 632.0 A 170.0 170.0 0 0 1 896.0 462.0 Z", "camD": "M 853.0 503.0 L 1133.0 503.0 A 80.0 80.0 0 0 1 1213.0 583.0 L 1213.0 863.0 A 80.0 80.0 0 0 1 1133.0 943.0 L 853.0 943.0 A 80.0 80.0 0 0 1 773.0 863.0 L 773.0 583.0 A 80.0 80.0 0 0 1 853.0 503.0 Z", "outBox": [726, 462, 1775, 2539]}, "iPhone 12 Pro": {"colors": [{"n": "Black", "h": "#2A2A2E", "f": "i12p-black.webp"}, {"n": "Red", "h": "#A32638", "f": "i12p-red.webp"}, {"n": "Gold", "h": "#E3CFA8", "f": "i12p-gold.webp"}, {"n": "White", "h": "#E8E7E7", "f": "i12p-white.webp"}], "outD": "M 940.0 555.0 L 1561.0 555.0 A 170.0 170.0 0 0 1 1731.0 725.0 L 1731.0 2277.0 A 170.0 170.0 0 0 1 1561.0 2447.0 L 940.0 2447.0 A 170.0 170.0 0 0 1 770.0 2277.0 L 770.0 725.0 A 170.0 170.0 0 0 1 940.0 555.0 Z", "camD": "M 893.0 593.0 L 1136.0 593.0 A 80.0 80.0 0 0 1 1216.0 673.0 L 1216.0 916.0 A 80.0 80.0 0 0 1 1136.0 996.0 L 893.0 996.0 A 80.0 80.0 0 0 1 813.0 916.0 L 813.0 673.0 A 80.0 80.0 0 0 1 893.0 593.0 Z", "outBox": [770, 555, 1731, 2447]}, "iPhone 12": {"colors": [{"n": "Black", "h": "#2A2A2E", "f": "i12-black.webp"}, {"n": "Gold", "h": "#E3CFA8", "f": "i12-gold.webp"}, {"n": "Red", "h": "#A32638", "f": "i12-red.webp"}, {"n": "White", "h": "#E8E7E7", "f": "i12-white.webp"}], "outD": "M 940.0 555.0 L 1561.0 555.0 A 170.0 170.0 0 0 1 1731.0 725.0 L 1731.0 2277.0 A 170.0 170.0 0 0 1 1561.0 2447.0 L 940.0 2447.0 A 170.0 170.0 0 0 1 770.0 2277.0 L 770.0 725.0 A 170.0 170.0 0 0 1 940.0 555.0 Z", "camD": "M 893.0 593.0 L 1136.0 593.0 A 80.0 80.0 0 0 1 1216.0 673.0 L 1216.0 916.0 A 80.0 80.0 0 0 1 1136.0 996.0 L 893.0 996.0 A 80.0 80.0 0 0 1 813.0 916.0 L 813.0 673.0 A 80.0 80.0 0 0 1 893.0 593.0 Z", "outBox": [770, 555, 1731, 2447]}, "iPhone 12 mini": {"colors": [{"n": "Black", "h": "#2A2A2E", "f": "i12mn-black.webp"}, {"n": "Red", "h": "#A32638", "f": "i12mn-red.webp"}, {"n": "Gold", "h": "#E3CFA8", "f": "i12mn-gold.webp"}, {"n": "White", "h": "#E8E7E7", "f": "i12mn-white.webp"}], "outD": "M 988.0 652.0 L 1513.0 652.0 A 170.0 170.0 0 0 1 1683.0 822.0 L 1683.0 2179.0 A 170.0 170.0 0 0 1 1513.0 2349.0 L 988.0 2349.0 A 170.0 170.0 0 0 1 818.0 2179.0 L 818.0 822.0 A 170.0 170.0 0 0 1 988.0 652.0 Z", "camD": "M 936.0 686.0 L 1139.0 686.0 A 80.0 80.0 0 0 1 1219.0 766.0 L 1219.0 969.0 A 80.0 80.0 0 0 1 1139.0 1049.0 L 936.0 1049.0 A 80.0 80.0 0 0 1 856.0 969.0 L 856.0 766.0 A 80.0 80.0 0 0 1 936.0 686.0 Z", "outBox": [818, 652, 1683, 2349]}, "iPhone 14 Pro Max": {"colors": [{"n": "Black", "h": "#2A2A2E", "f": "i14pm-black.webp"}, {"n": "Red", "h": "#A32638", "f": "i14pm-red.webp"}, {"n": "Silver", "h": "#C9C9C9", "f": "i14pm-silver.webp"}, {"n": "Gold", "h": "#E3CFA8", "f": "i14pm-gold.webp"}], "outD": "M 892.0 444.0 L 1608.0 444.0 A 175.0 175.0 0 0 1 1783.0 619.0 L 1783.0 2381.0 A 175.0 175.0 0 0 1 1608.0 2556.0 L 892.0 2556.0 A 175.0 175.0 0 0 1 717.0 2381.0 L 717.0 619.0 A 175.0 175.0 0 0 1 892.0 444.0 Z", "camD": "M 830.0 470.0 L 1150.0 470.0 A 90.0 90.0 0 0 1 1240.0 560.0 L 1240.0 880.0 A 90.0 90.0 0 0 1 1150.0 970.0 L 830.0 970.0 A 90.0 90.0 0 0 1 740.0 880.0 L 740.0 560.0 A 90.0 90.0 0 0 1 830.0 470.0 Z", "outBox": [717, 444, 1783, 2556]}, "iPhone 14 Pro": {"colors": [{"n": "White", "h": "#E8E7E7", "f": "i14p-whte.webp"}, {"n": "Red", "h": "#A32638", "f": "i14p-red.webp"}, {"n": "Gold", "h": "#E3CFA8", "f": "i14p-gold.webp"}, {"n": "Black", "h": "#2A2A2E", "f": "i14p-black.webp"}], "outD": "M 934.0 534.0 L 1565.0 534.0 A 175.0 175.0 0 0 1 1740.0 709.0 L 1740.0 2291.0 A 175.0 175.0 0 0 1 1565.0 2466.0 L 934.0 2466.0 A 175.0 175.0 0 0 1 759.0 2291.0 L 759.0 709.0 A 175.0 175.0 0 0 1 934.0 534.0 Z", "camD": "M 870.0 555.0 L 1160.0 555.0 A 90.0 90.0 0 0 1 1250.0 645.0 L 1250.0 930.0 A 90.0 90.0 0 0 1 1160.0 1020.0 L 870.0 1020.0 A 90.0 90.0 0 0 1 780.0 930.0 L 780.0 645.0 A 90.0 90.0 0 0 1 870.0 555.0 Z", "outBox": [759, 534, 1740, 2466]}, "iPhone 14 Plus": {"colors": [{"n": "Black", "h": "#2A2A2E", "f": "i14m-black.webp"}, {"n": "Gold", "h": "#E3CFA8", "f": "i14m-gold.webp"}, {"n": "Silver", "h": "#C9C9C9", "f": "i14m-silver.webp"}, {"n": "Red", "h": "#A32638", "f": "i14m-red.webp"}], "outD": "M 906.0 452.0 L 1622.0 452.0 A 175.0 175.0 0 0 1 1797.0 627.0 L 1797.0 2378.0 A 175.0 175.0 0 0 1 1622.0 2553.0 L 906.0 2553.0 A 175.0 175.0 0 0 1 731.0 2378.0 L 731.0 627.0 A 175.0 175.0 0 0 1 906.0 452.0 Z", "camD": "M 845.0 475.0 L 1090.0 475.0 A 90.0 90.0 0 0 1 1180.0 565.0 L 1180.0 800.0 A 90.0 90.0 0 0 1 1090.0 890.0 L 845.0 890.0 A 90.0 90.0 0 0 1 755.0 800.0 L 755.0 565.0 A 90.0 90.0 0 0 1 845.0 475.0 Z", "outBox": [731, 452, 1797, 2553]}, "iPhone 14": {"colors": [{"n": "Black", "h": "#2A2A2E", "f": "i14-black.webp"}, {"n": "Gold", "h": "#E3CFA8", "f": "i14-gold.webp"}, {"n": "Silver", "h": "#C9C9C9", "f": "i14-silver.webp"}, {"n": "Red", "h": "#A32638", "f": "i14-red.webp"}], "outD": "M 935.0 536.0 L 1564.0 536.0 A 175.0 175.0 0 0 1 1739.0 711.0 L 1739.0 2289.0 A 175.0 175.0 0 0 1 1564.0 2464.0 L 935.0 2464.0 A 175.0 175.0 0 0 1 760.0 2289.0 L 760.0 711.0 A 175.0 175.0 0 0 1 935.0 536.0 Z", "camD": "M 875.0 558.0 L 1080.0 558.0 A 90.0 90.0 0 0 1 1170.0 648.0 L 1170.0 850.0 A 90.0 90.0 0 0 1 1080.0 940.0 L 875.0 940.0 A 90.0 90.0 0 0 1 785.0 850.0 L 785.0 648.0 A 90.0 90.0 0 0 1 875.0 558.0 Z", "outBox": [760, 536, 1739, 2464]}, "iPhone 15 Plus": {"colors": [{"n": "Black", "h": "#303030", "f": "i15m-black.webp"}, {"n": "Pink", "h": "#AD979C", "f": "i15m-pink.webp"}, {"n": "Yellow", "h": "#BFB79F", "f": "i15m-yellow.webp"}], "outD": "M 844.0 324.0 L 1663.0 324.0 A 185.0 185.0 0 0 1 1848.0 509.0 L 1848.0 2528.0 A 185.0 185.0 0 0 1 1663.0 2713.0 L 844.0 2713.0 A 185.0 185.0 0 0 1 659.0 2528.0 L 659.0 509.0 A 185.0 185.0 0 0 1 844.0 324.0 Z", "camD": "M 795.0 360.0 L 1085.0 360.0 A 95.0 95.0 0 0 1 1180.0 455.0 L 1180.0 805.0 A 95.0 95.0 0 0 1 1085.0 900.0 L 795.0 900.0 A 95.0 95.0 0 0 1 700.0 805.0 L 700.0 455.0 A 95.0 95.0 0 0 1 795.0 360.0 Z", "outBox": [659, 324, 1848, 2713]}, "iPhone 16 Plus": {"colors": [{"n": "Black", "h": "#545454", "f": "i16m-dark.webp"}, {"n": "White", "h": "#A9A9A9", "f": "i16m-white.webp"}, {"n": "Blue", "h": "#818EBA", "f": "i16m-blue.webp"}, {"n": "Pink", "h": "#B286A7", "f": "i16m-pink.webp"}], "outD": "M 825.0 271.0 L 1671.0 271.0 A 185.0 185.0 0 0 1 1856.0 456.0 L 1856.0 2497.0 A 185.0 185.0 0 0 1 1671.0 2682.0 L 825.0 2682.0 A 185.0 185.0 0 0 1 640.0 2497.0 L 640.0 456.0 A 185.0 185.0 0 0 1 825.0 271.0 Z", "camD": "M 785.0 320.0 L 1075.0 320.0 A 95.0 95.0 0 0 1 1170.0 415.0 L 1170.0 785.0 A 95.0 95.0 0 0 1 1075.0 880.0 L 785.0 880.0 A 95.0 95.0 0 0 1 690.0 785.0 L 690.0 415.0 A 95.0 95.0 0 0 1 785.0 320.0 Z", "outBox": [640, 271, 1856, 2682]}, "Galaxy S26": {"colors": [{"n": "White", "h": "#F5F5F5", "f": "s26-white.webp"}], "outD": "M 779.0 251.0 L 1719.0 251.0 A 150.0 150.0 0 0 1 1869.0 401.0 L 1869.0 2599.0 A 150.0 150.0 0 0 1 1719.0 2749.0 L 779.0 2749.0 A 150.0 150.0 0 0 1 629.0 2599.0 L 629.0 401.0 A 150.0 150.0 0 0 1 779.0 251.0 Z", "camD": "M 866.0 332.0 L 1068.0 332.0 A 151.0 151.0 0 0 1 1219.0 483.0 L 1219.0 1060.0 A 151.0 151.0 0 0 1 1068.0 1211.0 L 866.0 1211.0 A 151.0 151.0 0 0 1 715.0 1060.0 L 715.0 483.0 A 151.0 151.0 0 0 1 866.0 332.0 Z", "outBox": [629, 251, 1869, 2749]}, "Galaxy S26 Ultra": {"colors": [{"n": "Black", "h": "#2A2A30", "f": "s26u-clear-black.webp"}, {"n": "White", "h": "#F2F0EE", "f": "s26u-clear-white.webp"}], "outD": "M 786.0 251.0 L 1713.0 251.0 A 150.0 150.0 0 0 1 1863.0 401.0 L 1863.0 2599.0 A 150.0 150.0 0 0 1 1713.0 2749.0 L 786.0 2749.0 A 150.0 150.0 0 0 1 636.0 2599.0 L 636.0 401.0 A 150.0 150.0 0 0 1 786.0 251.0 Z", "camD": "M 875.0 328.0 L 1085.0 328.0 A 158.0 158.0 0 0 1 1243.0 486.0 L 1243.0 1060.0 A 158.0 158.0 0 0 1 1085.0 1218.0 L 875.0 1218.0 A 158.0 158.0 0 0 1 717.0 1060.0 L 717.0 486.0 A 158.0 158.0 0 0 1 875.0 328.0 Z", "outBox": [636, 251, 1863, 2749]}};
   var DEVICE_ORDER = Object.keys(KP_DEVICES);
   function slugify(m){ return m.toLowerCase().replace(/ /g,'-'); }
 

diff --git a/customizer.html b/customizer.html
@@ -613,7 +613,7 @@
 
   var TPL, FIT, OUT_D, CAM_D, TPL_D;
   /* KP-SAMSUNG-KITS (tough case only — KishMish scene renders) */
-  Object.assign(KITS, {"Samsung Galaxy S26": {"light": "s26-light.jpg", "tpl": {"w": 202.32, "h": 423.12, "pxW": 843, "pxH": 1763}, "fit": {"x": 702, "y": 311, "sx": 5.4023, "sy": 5.5894}, "outD": "M 779.0 251.0 L 1719.0 251.0 A 150.0 150.0 0 0 1 1869.0 401.0 L 1869.0 2599.0 A 150.0 150.0 0 0 1 1719.0 2749.0 L 779.0 2749.0 A 150.0 150.0 0 0 1 629.0 2599.0 L 629.0 401.0 A 150.0 150.0 0 0 1 779.0 251.0 Z", "camD": "M 866.0 332.0 L 1068.0 332.0 A 151.0 151.0 0 0 1 1219.0 483.0 L 1219.0 1060.0 A 151.0 151.0 0 0 1 1068.0 1211.0 L 866.0 1211.0 A 151.0 151.0 0 0 1 715.0 1060.0 L 715.0 483.0 A 151.0 151.0 0 0 1 866.0 332.0 Z", "textBounds": {"cx": 1248, "yTop": 1280, "yBot": 2626}, "colors": [{"n": "White", "h": "#F5F5F5", "f": "s26-white.webp"}], "toughOnly": true}, "Samsung Galaxy S26 Ultra": {"light": "s26u-clear-black.webp", "tpl": {"w": 223.92, "h": 463.2, "pxW": 933, "pxH": 1930}, "fit": {"x": 709, "y": 311, "sx": 4.8232, "sy": 5.1058}, "outD": "M 786.0 251.0 L 1713.0 251.0 A 150.0 150.0 0 0 1 1863.0 401.0 L 1863.0 2599.0 A 150.0 150.0 0 0 1 1713.0 2749.0 L 786.0 2749.0 A 150.0 150.0 0 0 1 636.0 2599.0 L 636.0 401.0 A 150.0 150.0 0 0 1 786.0 251.0 Z", "camD": "M 875.0 328.0 L 1085.0 328.0 A 158.0 158.0 0 0 1 1243.0 486.0 L 1243.0 1060.0 A 158.0 158.0 0 0 1 1085.0 1218.0 L 875.0 1218.0 A 158.0 158.0 0 0 1 717.0 1060.0 L 717.0 486.0 A 158.0 158.0 0 0 1 875.0 328.0 Z", "textBounds": {"cx": 1249, "yTop": 1280, "yBot": 2626}, "colors": [{"n": "Black", "h": "#2A2A30", "f": "s26u-clear-black.webp"}], "toughOnly": true}});
+  Object.assign(KITS, {"Samsung Galaxy S26": {"light": "s26-light.jpg", "tpl": {"w": 202.32, "h": 423.12, "pxW": 843, "pxH": 1763}, "fit": {"x": 702, "y": 311, "sx": 5.4023, "sy": 5.5894}, "outD": "M 779.0 251.0 L 1719.0 251.0 A 150.0 150.0 0 0 1 1869.0 401.0 L 1869.0 2599.0 A 150.0 150.0 0 0 1 1719.0 2749.0 L 779.0 2749.0 A 150.0 150.0 0 0 1 629.0 2599.0 L 629.0 401.0 A 150.0 150.0 0 0 1 779.0 251.0 Z", "camD": "M 866.0 332.0 L 1068.0 332.0 A 151.0 151.0 0 0 1 1219.0 483.0 L 1219.0 1060.0 A 151.0 151.0 0 0 1 1068.0 1211.0 L 866.0 1211.0 A 151.0 151.0 0 0 1 715.0 1060.0 L 715.0 483.0 A 151.0 151.0 0 0 1 866.0 332.0 Z", "textBounds": {"cx": 1248, "yTop": 1280, "yBot": 2626}, "colors": [{"n": "White", "h": "#F5F5F5", "f": "s26-white.webp"}], "toughOnly": true}, "Samsung Galaxy S26 Ultra": {"light": "s26u-clear-black.webp", "tpl": {"w": 223.92, "h": 463.2, "pxW": 933, "pxH": 1930}, "fit": {"x": 709, "y": 311, "sx": 4.8232, "sy": 5.1058}, "outD": "M 786.0 251.0 L 1713.0 251.0 A 150.0 150.0 0 0 1 1863.0 401.0 L 1863.0 2599.0 A 150.0 150.0 0 0 1 1713.0 2749.0 L 786.0 2749.0 A 150.0 150.0 0 0 1 636.0 2599.0 L 636.0 401.0 A 150.0 150.0 0 0 1 786.0 251.0 Z", "camD": "M 875.0 328.0 L 1085.0 328.0 A 158.0 158.0 0 0 1 1243.0 486.0 L 1243.0 1060.0 A 158.0 158.0 0 0 1 1085.0 1218.0 L 875.0 1218.0 A 158.0 158.0 0 0 1 717.0 1060.0 L 717.0 486.0 A 158.0 158.0 0 0 1 875.0 328.0 Z", "textBounds": {"cx": 1249, "yTop": 1280, "yBot": 2626}, "colors": [{"n": "Black", "h": "#2A2A30", "f": "s26u-clear-black.webp"}, {"n": "White", "h": "#F2F0EE", "f": "s26u-clear-white.webp"}], "toughOnly": true}});
   /* KP-HYBRID-KITS: Cube Slim Hybrid MagSafe (TPPCMAG26) — same clear-case geometry, colored bumper renders */
   if(KITS['iPhone 17']) KITS['iPhone 17'].hybrid = {colors:[
     {n:'Black', h:'#2A2A2E', f:'i17-hyb-black.webp'},
